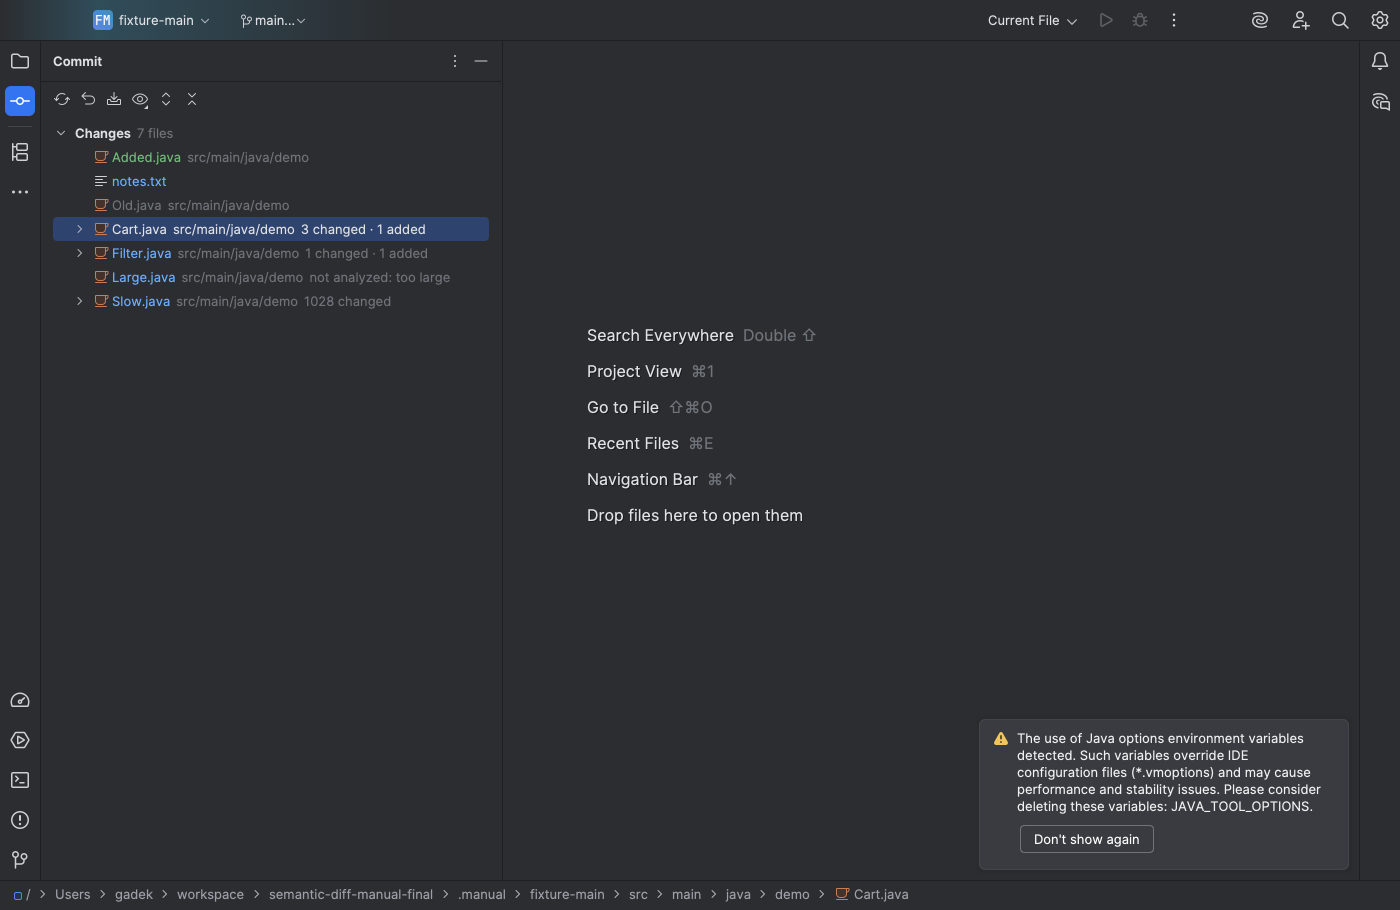
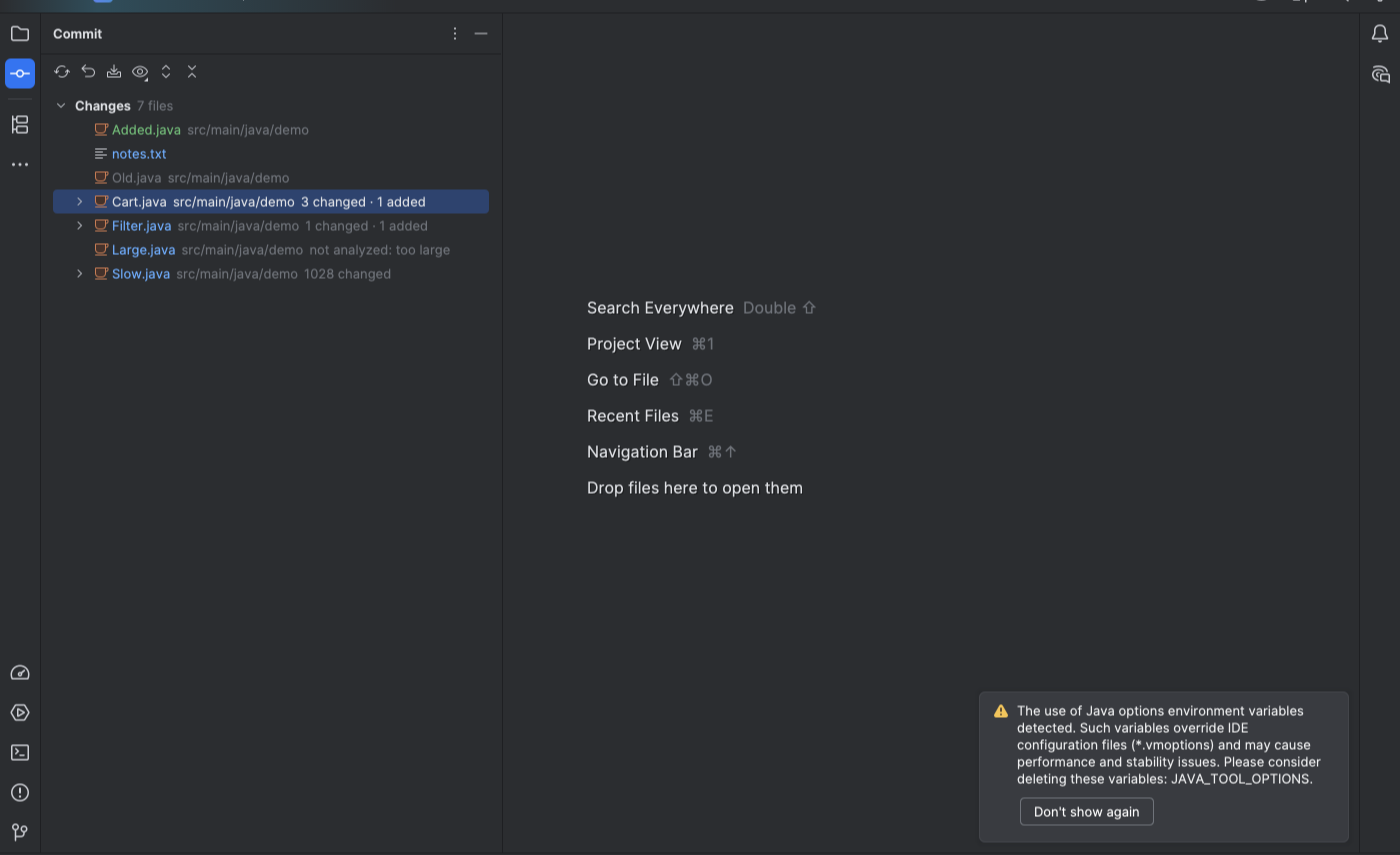
docs(validation): correct the manual-check record
Restore R11 in the caret-follow remaining rows, keep R16 with #111, mark three-sided diffs out of scope, and remove the local account path from the single-click screenshot.

diff --git a/docs/VALIDATION.md b/docs/VALIDATION.md
@@ -66,8 +66,9 @@ Changes, with the preview setting on and off. All actions were physical.
 | B5, declaration rows | Partial. A physical double-click and a physical Enter on `method total()` each opened the `Diff` tab with that outline row selected (R9 and R14). The R16 fallback was not triggered, and directory and changelist rows were not re-driven. |
 | B3 / R19, single click | **Inconclusive, not a SMART Diff regression.** With the window active, the tree focused and `ChangesView.SingleClickPreview` selected, a physical single click opened no preview for `notes.txt` or `Cart.java`; the plain row fails too. Both `show.diff.preview.as.editor.tab.with.single.click=true` and `LOCAL_CHANGES_DETAILS_PREVIEW_SHOWN=true`, the splitter/editor-tab distinction, and a SMART Diff-off control were not tested. Screenshot: [docs/screenshots/changes-tree-manual-2026-11-09/111-ic-2025.1-single-click-no-preview.png](screenshots/changes-tree-manual-2026-11-09/111-ic-2025.1-single-click-no-preview.png). |
 
-B3/R19 is a preview-setting/platform behavior question, not a SMART Diff failure. **#111 stays open** for R9/R16 and the
-directory/changelist rows; the preview leg is listed as inconclusive.
+B3/R19 is a preview-setting/platform behavior question, not a SMART Diff failure. **#111 stays open** for R16 (the
+fallback when the declaration diff cannot open) and the directory/changelist rows; R9 (Enter) and R14 (double-click)
+passed. The preview leg is listed as inconclusive.
 
 ### #110: caret follow
 
@@ -78,7 +79,7 @@ Local Changes splitter preview. The tree used Local Changes on IC-2025.1.3.
 | --- | --- |
 | R1 | Pass. A physical arrow in `total()`, in the changed class header and in added `isEmpty()` expanded `Cart.java` and selected the innermost changed row; a plain editor and a two-sided diff were both used. |
 | R2 | Pass. A caret in `package demo;`, outside every changed declaration, selected the file row. A caret in unchanged `subtotal()` correctly selects the changed class row because the class declaration contains it. |
-| R3 | Partial. Physical clicks in the new and old editors of the two-sided `Cart.java` diff selected `method total()` for their own side. A three-sided diff was not run, and the preview leg (editor tab and Local Changes splitter) was not verified; the B3 single-click result is inconclusive. |
+| R3 | Partial. Physical clicks in the new and old editors of the two-sided `Cart.java` diff selected `method total()` for their own side. The preview leg (editor tab and Local Changes splitter) was not verified; the B3 single-click result is inconclusive. Three-sided diffs and merge windows are out of scope: the mapping returns without touching the tree. |
 | R4 | Pass. With the follow setting off a physical arrow left the tree unchanged; with it on the next arrow followed. Toggling did not clear the summaries or rebuild away the rows. |
 | R5 | Partial. After following, the focus owner stayed `EditorComponentImpl`; commit inclusion was not measured in this run. |
 | R6 | Partial. 30 physical Right keys produced 2 follow runs, not 30, so typing is debounced. A click race was repeated 6 times and the clicked row stayed selected after the last one; each run was not measured separately. |
@@ -86,7 +87,11 @@ Local Changes splitter preview. The tree used Local Changes on IC-2025.1.3.
 | R8 | Partial. Added `Added.java`, deleted `Old.java`, unsupported `notes.txt` and too-large `Large.java` each selected only the file row. The 500-file limit was not run. |
 | R9 | Pass by verifier: `verifyPlugin` is compatible on both builds. The local Scala-resolving run reports the 4 existing experimental usages; the CI artifact reports 3. No deprecated usage. |
 | R10 | Pass. With `CHANGED` hidden and the caret in `parse()`, the tree selected the shown `class Filter` container; with Declarations off it selected the file row. |
-**#110 stays open** for R3's three-sided and preview legs, R5 inclusion, R7 and R8's 500-file limit.
+| R11 | Not verified. The pending-summary retry path was not driven with a caret event from the Local Changes splitter or from an unfocused editor; `ChangesCaretFollowTest` covers both automatically. |
+
+**#110 stays open** for R3's preview leg (editor tab and Local Changes splitter), R5 commit inclusion, R6 per-run
+timing and click-race measurement, R7's stale/pending summary row, R8's 500-file limit and R11. R12 is covered
+automatically by `ChangesCaretFollowTest` and is not a manual row.
 
 ### Verification
 

diff --git a/docs/specs/changes-tree/05-changes-tree-caret-follow-details.md b/docs/specs/changes-tree/05-changes-tree-caret-follow-details.md
@@ -302,24 +302,25 @@ language, a file over the size limit and a file with a timed-out or failed summa
 | Failure logging | `ChangesCaretFollowTest` `test a mapping failure is logged once and leaves the tree unchanged` |
 | R10 | `ChangesCaretFollowTest` `test the tree filter hides the caret row and selects the nearest shown row above`: with the changed method's own label hidden, the shown class container or file row is selected, and with Declarations off the file row is selected |
 | R11 | `ChangesCaretFollowTest` `test a preview caret event does not replace a pending summary follow` and `test an unfocused editor's caret event does not replace a pending summary follow`: while a summary is pending, a caret event from the Local Changes splitter or from an editor without focus leaves the remembered editor and offset in place, and the declaration under the original caret is selected once the summary arrives |
-| R1–R11 | Manual check: **partial**, 2026-11-09. R1, R2, R4, R10 and R3's two-sided mapping passed with physical input on IC 2025.1.3; R3's preview leg, R5 inclusion, R7, R8's 500-file limit, R9/R16 and the directory/changelist rows remain, and the single-click preview check is inconclusive. See [validation](../../VALIDATION.md#2026-11-09-changes-tree-manual-checks-on-ic-202513-and-iu-20263-108-110-111). |
+| R1–R11 | Manual check: **partial**, 2026-11-09. R1, R2, R4, R9, R10 and R3's two-sided mapping passed with physical input on IC 2025.1.3; R3's preview leg, R5 inclusion, R6 per-run timing and click-race measurement, R7, R8's 500-file limit and R11 remain, and the single-click preview check is inconclusive. R12 is covered automatically by `ChangesCaretFollowTest`. See [validation](../../VALIDATION.md#2026-11-09-changes-tree-manual-checks-on-ic-202513-and-iu-20263-108-110-111). |
 
 ### Manual check (partial, 2026-11-09)
 
-Partially run with physical input on IntelliJ IDEA 2025.1.3 and 2026.3 on 2026-11-09. R1, R2, R4, R10 and R3's
-two-sided mapping passed; R3's preview leg, R5 inclusion, R7, R8's 500-file limit, R9/R16 and the directory/changelist
-rows remain. The single-click preview check is inconclusive because the plain row also showed no preview, so it is a
-preview-setting/platform question rather than a SMART Diff failure. See
+Partially run with physical input on IntelliJ IDEA 2025.1.3 and 2026.3 on 2026-11-09. R1, R2, R4, R9, R10 and R3's
+two-sided mapping passed; R3's preview leg, R5 inclusion, R6 per-run timing and click-race measurement, R7, R8's
+500-file limit and R11 remain. R12 is covered automatically. The single-click preview check is inconclusive because the
+plain row also showed no preview, so it is a preview-setting/platform question rather than a SMART Diff failure. See
 [the 2026-11-09 validation record](../../VALIDATION.md#2026-11-09-changes-tree-manual-checks-on-ic-202513-and-iu-20263-108-110-111).
-The steps below are still required for the remaining rows, including the R7 intermediate pending rebuild and the
-preview caret event in step 5, and the R10 hidden-row check in step 6a.
+The steps below are still required for the remaining rows, including the R5 commit-inclusion check, the R6 per-run
+timing and click-race measurement, the R7 intermediate pending rebuild, the R8 500-file limit and the R11 preview
+caret event in step 5.
 Run this on IntelliJ IDEA 2025.1 and the latest release, in the Local Changes view and in the Commit tool window:
 
 1. Open a modified Java file with at least two changed methods. Move the caret through each changed method, through
    unchanged code in the same file, and into a changed class header. The tree expands the file and selects the method,
    then the file row, then the class row.
 2. Open the file's two-sided diff and repeat in the new and old editors. Each side selects the row for its own range.
-   Open a three-sided diff or merge window and move the caret in each pane; the Changes tree does not move.
+   Three-sided diffs and merge windows are out of scope and covered by the automated test that the tree does not move.
 2a. Turn on the platform's single-click Changes preview in both forms: the editor tab and the Local Changes splitter. Move
    the caret in each preview. The file row stays selected and the preview stays open; the tree does not select a
    declaration row.
